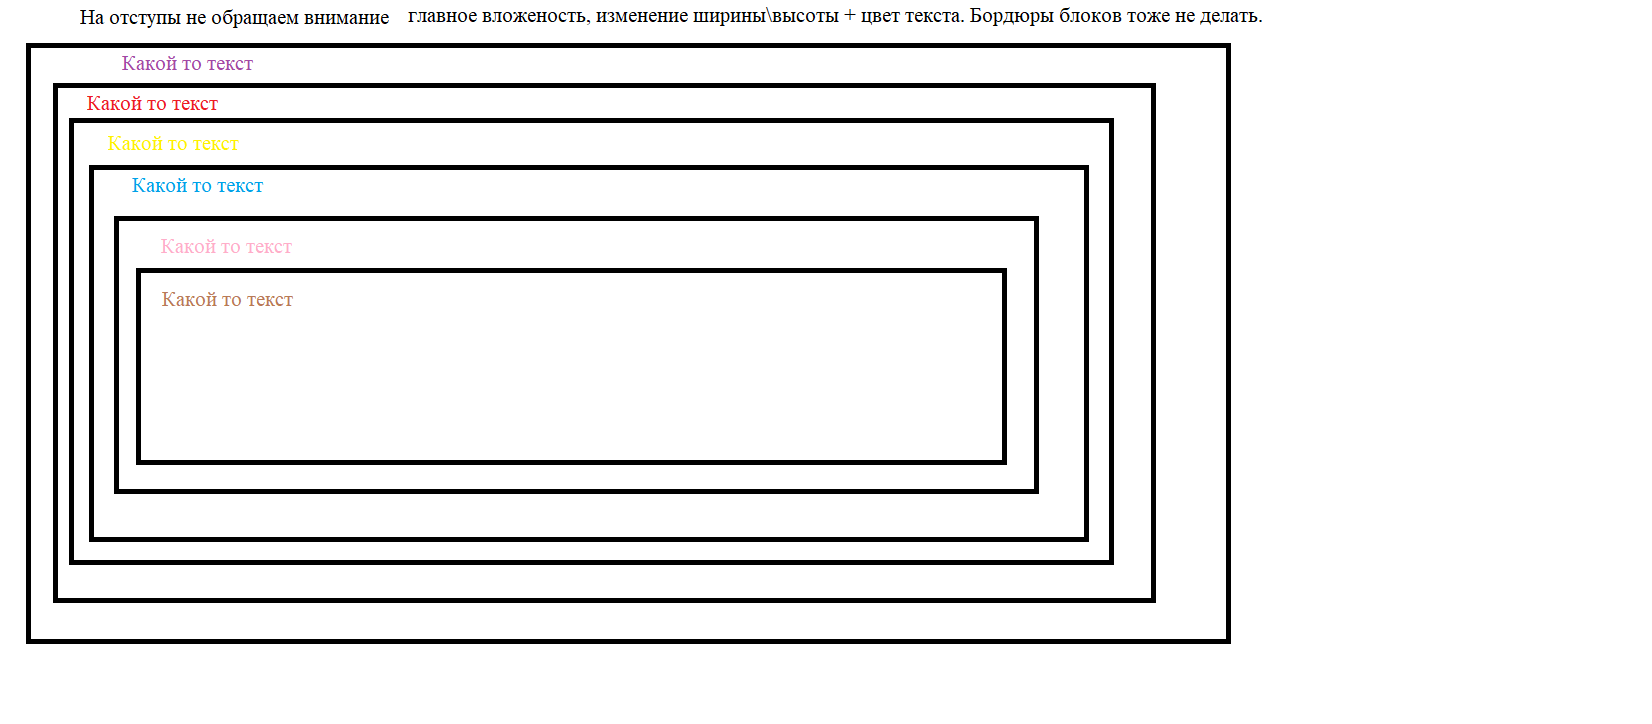
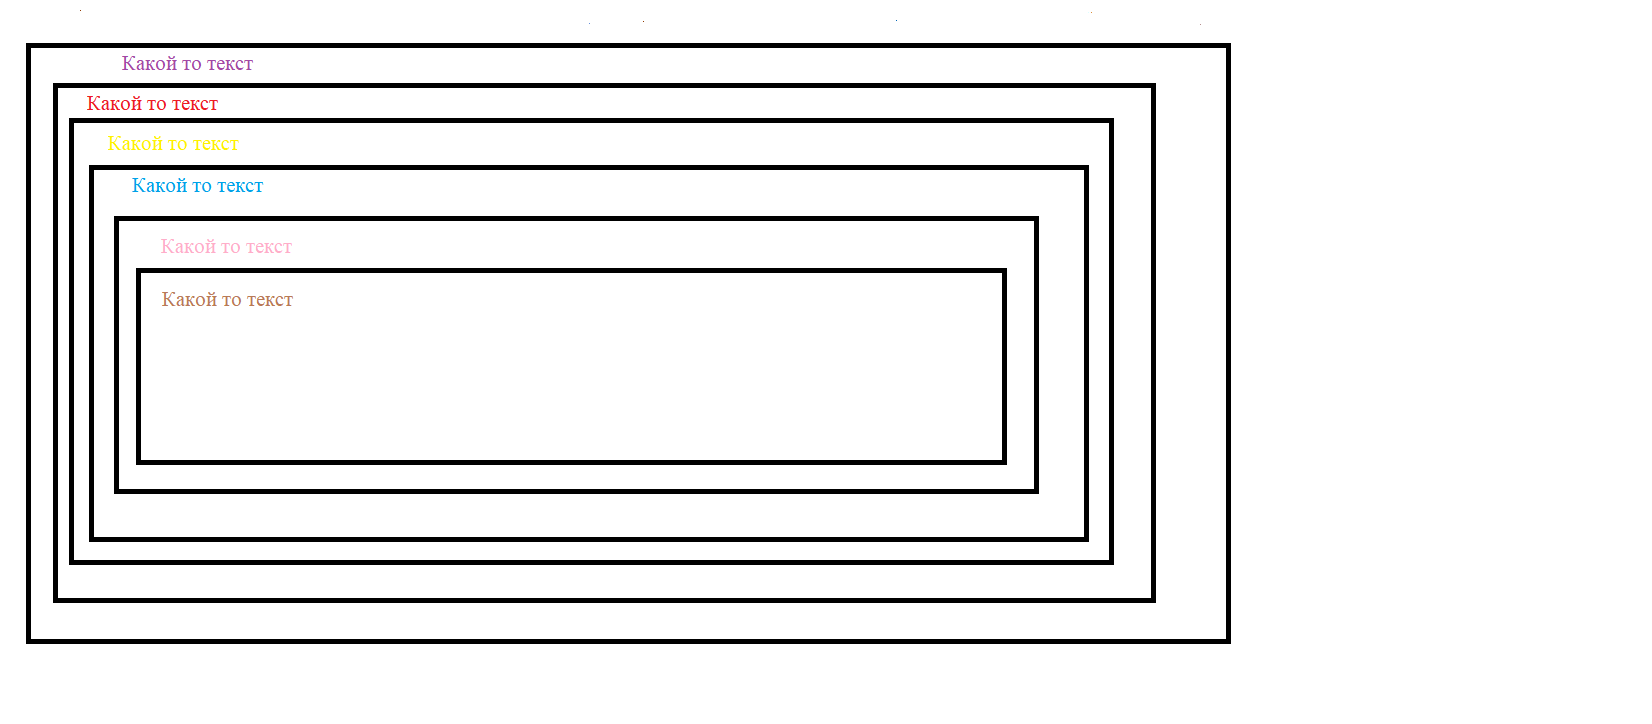
edit homework

Changed region(s): [[0.0309, 0.0, 0.7718, 0.0304]]

diff --git a/lections/Lection_3_css intro/homework/README.md b/lections/Lection_3_css intro/homework/README.md
@@ -11,12 +11,14 @@
  * https://webref.ru/course/css-basics/selectors -- псевдоклассы пропускаем;
  * https://webref.ru/course/css-basics/size -- повторяем проценты, пиксели все остальное пропускаем.
 3. Практика:
-  3.1 Используя внешний файл сss создать 2 класса accent и error. Accent - задает золотой цвет тексту, 
+  * Используя внешний файл сss создать 2 класса accent и error. Accent - задает золотой цвет тексту, 
       увеличивает размер шрифта и дает жирное начертание. Класс Error - делает все тоже только красного цвета
       Применить каждый класс к отдельному параграфу с текстом.  
-  3.2 Cоздать 6 вложенные друг в друга тега div. Каждые тег div должен содержать какой то текст.
+  * Cоздать 6 вложенные друг в друга тега div. Каждые тег div должен содержать какой то текст.
        1-3тим тегам div даем классы (название на ваше усмотрение), 3-6 тегу div не даем классов.
-      Изменить каждому div-у ширину\высоту (размерность на ваше усмотрение) и цвет текста. 
-      Схематично рассположени єлементов друг в друге:
+      Изменить каждому div-у ширину\высоту (размерность на ваше усмотрение) и цвет текста.
+      На отступы, бордеры не обращаем внимание. 
+      
+  Схематично рассположени єлементов друг в друге:
  ![Alt Text](maket_1.png)
      
